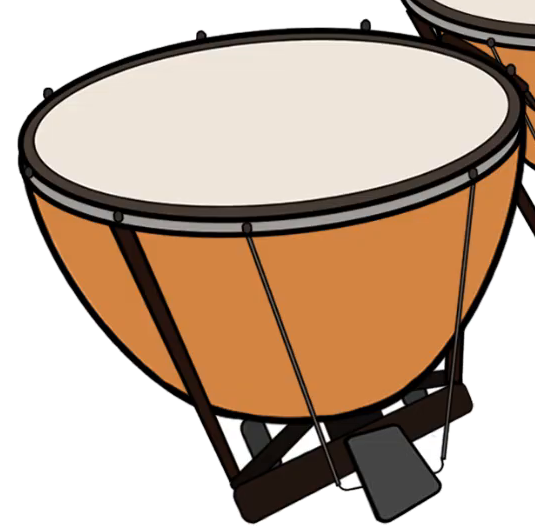
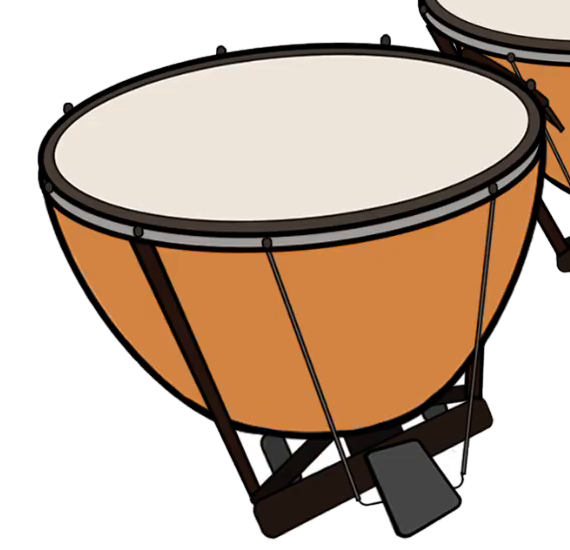
carmina: 팀파니 그림 잘림 없게 여백 확보, 범례 썸네일 갱신

Changed region(s): [[0.0299, 0.0, 1.0, 0.9962], [0.5084, 0.9358, 0.5682, 0.966]]

diff --git a/carmina/index.html b/carmina/index.html
@@ -129,10 +129,10 @@ var PH=D.ph||753;
 var TAB=D.tab, NOTES=D.notes, END=D.end;
 var SCORE_W=D.w, SCORE_Y=20, SCORE_H=D.h;
 var DRUMS={
-  dl:{bbox:[195,545,535,530], note:{y:195}},
-  dm:{bbox:[585,470,455,400], note:{y:171}},
-  dr:{bbox:[1295,550,455,360], note:{y:128}},
-  cr:{bbox:[1025,460,425,380]}
+  dl:{bbox:[175,530,570,550], note:{y:195}},
+  dm:{bbox:[570,460,478,418], note:{y:171}},
+  dr:{bbox:[1282,538,490,380], note:{y:128}},
+  cr:{bbox:[1018,452,440,396]}
 };
 var SPRITE={dl:"dr_L.png", dm:"dr_CL.png", dr:"dr_R.png", cr:"dr_CR.png"};
 var THUMB={dl:"thumb_L.png", dm:"thumb_M.png", dr:"thumb_R.png"};
